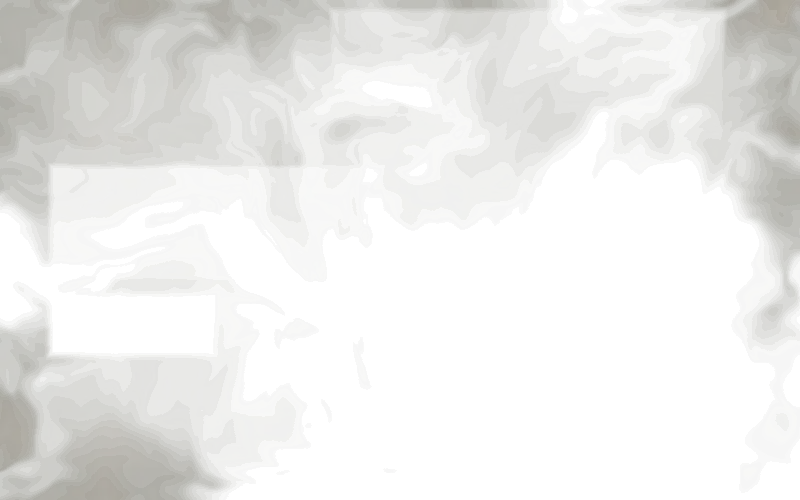
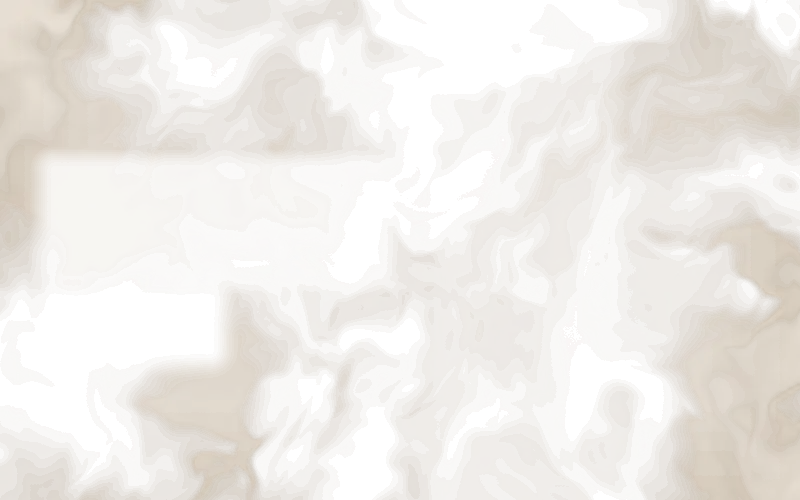
Smoke changes

diff --git a/src/lib/mist-shader.ts b/src/lib/mist-shader.ts
@@ -46,21 +46,24 @@ float noise(vec2 p) {
              mix(hash(i + vec2(0.0, 1.0)), hash(i + vec2(1.0, 1.0)), f.x), f.y);
 }
 
+// Each octave is turned, so the noise grid lines never stack into straight creases once the smoke is dense.
+const mat2 TURN = mat2(0.8, 0.6, -0.6, 0.8);
+
 float fbm(vec2 p) {
   float v = 0.0;
   float a = 0.5;
   for (int i = 0; i < 4; i++) {
     v += a * noise(p);
-    p = p * 2.02 + 17.0;
+    p = TURN * p * 2.02 + 17.0;
     a *= 0.5;
   }
   return v;
 }
 
-// 1 inside the box, fading to 0 over "feather" pixels outside it.
+// 1 inside the box, fading to 0 over "feather" pixels outside it, with round corners so dense smoke never shows a box.
 float rectMask(vec2 p, vec4 r, float feather) {
-  vec2 d = max(r.xy - p, p - r.zw);
-  return 1.0 - smoothstep(0.0, feather, max(d.x, d.y));
+  vec2 d = max(max(r.xy - p, p - r.zw), 0.0);
+  return 1.0 - smoothstep(0.0, feather, length(d));
 }
 
 void main() {
@@ -90,26 +93,33 @@ void main() {
   push *= min(1.0, uRadius * 0.33 / max(pushed, 1e-3));
   vec2 p = (px - push) * k;
 
-  // Smoke: a doubly warped field that curls slowly on its own, drifting sideways.
-  float t = uTime * 0.04;
+  // Smoke: a doubly warped field that curls on its own and rises slowly, like smoke off the floor.
+  float t = uTime * 0.05;
+  p.y -= t * 1.2;
   vec2 q = vec2(fbm(p + vec2(0.0, t)), fbm(p + vec2(5.2, 1.3) - vec2(t * 0.7, 0.0)));
   vec2 w = vec2(fbm(p + 2.6 * q + vec2(1.7, 9.2) + t * 0.5), fbm(p + 2.6 * q + vec2(8.3, 2.8) - t * 0.4));
   float f = fbm(p + 2.0 * w + vec2(t, 0.0));
 
-  float density = smoothstep(0.34, 0.8, f) * (1.0 - clear);
-  vec3 col = mix(uColA, uColB, smoothstep(0.25, 0.6, f));
-  col = mix(col, uColC, smoothstep(0.58, 0.9, f));
+  // A thick body with denser curling wisps on top, so it reads as smoke and not haze.
+  float body = smoothstep(0.24, 0.58, f);
+  float wisp = smoothstep(0.12, 0.0, abs(f - 0.55)) * smoothstep(0.3, 0.7, length(w));
+  float density = clamp(body * 0.85 + wisp * 0.3, 0.0, 1.0) * (1.0 - clear);
+  vec3 col = mix(uColA, uColB, smoothstep(0.3, 0.55, f));
+  col = mix(col, uColC, max(smoothstep(0.55, 0.8, f), wisp * 0.6));
 
-  // Alpha caps: 0.55 near the hero edges, 0.3 inside, 0.3 over the bottle, 0.15 behind the text.
+  // Alpha caps: 0.8 near the hero edges, 0.6 inside, 0.4 over the bottle, 0.15 behind the text.
   float edge = min(min(px.x, uRes.x - px.x), min(px.y, uRes.y - px.y)) / minDim;
-  float cap = mix(0.3, 0.55, 1.0 - smoothstep(0.0, 0.22, edge));
-  cap = min(cap, mix(1.0, 0.3, rectMask(px, uBottle, 40.0 * uScale)));
-  cap = min(cap, mix(1.0, 0.15, rectMask(px, uText, 40.0 * uScale)));
+  float cap = mix(0.6, 0.8, 1.0 - smoothstep(0.0, 0.22, edge));
+  // The bottle box is mostly transparent margin, so the cap hugs its middle third with a wide soft edge, or its sides show as seams.
+  vec4 glass = uBottle + vec4(1.0, 0.0, -1.0, 0.0) * (uBottle.z - uBottle.x) * 0.3;
+  cap = min(cap, mix(1.0, 0.4, rectMask(px, glass, 120.0 * uScale)));
+  cap = min(cap, mix(1.0, 0.15, rectMask(px, uText, 80.0 * uScale)));
 
   // The button is never covered. Its box already includes 16px padding.
-  float keep = rectMask(px, uKeepA, 24.0 * uScale);
+  float keep = rectMask(px, uKeepA, 64.0 * uScale);
 
-  float a = density * cap * (1.0 - keep);
+  // Half a step of dither: the soft cap ramps change alpha by less than one 8-bit step per pixel, which shows as stripes.
+  float a = max(density * cap + (hash(px) - 0.5) / 255.0, 0.0) * (1.0 - keep);
   outColor = vec4(col * a, a);
 }
 `;

diff --git a/src/components/MistLayer.tsx b/src/components/MistLayer.tsx
@@ -6,16 +6,16 @@ import { gsap, useGSAP } from "@/lib/gsap";
 // OGL and the shader stay out of the first load.
 const Mist = lazy(() => import("./Mist"));
 
-/** The mask keeps the fog low over the floor, fading out above roughly 65 percent of the hero height. */
-const MASK = "[mask-image:linear-gradient(to_top,black_30%,transparent_68%)]";
-// The still's caps were baked for the desktop layout. At 55 percent no region passes the 0.3 bottle cap on any layout.
-const STILL = "h-full w-full object-cover opacity-55";
+/** The mask keeps the smoke low over the floor, fading out above roughly 75 percent of the hero height. */
+const MASK = "[mask-image:linear-gradient(to_top,black_35%,transparent_75%)]";
+// The still's caps were baked for the desktop layout. At 75 percent it stays bold on phones, where the bottle sits elsewhere.
+const STILL = "h-full w-full object-cover opacity-75";
 const FADE = { duration: 0.8, ease: "power1.inOut" };
 
 /**
- * The fog starts as a captured frame of the shader, which costs nothing. The live shader only takes over when a
+ * The smoke starts as a captured frame of the shader, which costs nothing. The live shader only takes over when a
  * pointer or finger first comes over the hero, in idle time: creating a WebGL context is a long main-thread task,
- * and the mist only reacts to the pointer anyway. Reduced motion and WebGL failures keep the still.
+ * and the smoke only reacts to the pointer anyway. Reduced motion and WebGL failures keep the still.
  */
 export function MistLayer() {
   const layer = useRef<HTMLDivElement>(null);
@@ -64,8 +64,13 @@ export function MistLayer() {
     <div ref={layer} aria-hidden="true" className={`pointer-events-none absolute inset-0 z-[5] opacity-0 ${MASK}`}>
       {/* Decorative. Lazy, so the other theme's still never downloads. */}
       <div ref={still} className="absolute inset-0">
-        <img src="/mist-static.webp" alt="" loading="lazy" className={`${STILL} dark:hidden`} />
-        <img src="/mist-static-dark.webp" alt="" loading="lazy" className={`${STILL} hidden dark:block`} />
+        {/* Portrait screens get a still baked for the phone layout, or the crop keeps only the thin middle of the wide one. */}
+        {["", "-dark"].map((theme) => (
+          <picture key={theme}>
+            <source media="(orientation: portrait)" srcSet={`/mist-static-tall${theme}.webp`} />
+            <img src={`/mist-static${theme}.webp`} alt="" loading="lazy" className={`${STILL} ${theme ? "hidden dark:block" : "dark:hidden"}`} />
+          </picture>
+        ))}
       </div>
       {live && (
         <div ref={canvas} className="absolute inset-0 opacity-0">

diff --git a/tests/e2e/mist-caps.spec.ts b/tests/e2e/mist-caps.spec.ts
@@ -8,18 +8,20 @@ const STEP = 1 / 255;
 test.describe("mist alpha caps and keep-out (real shader, no browser UI)", () => {
   test.skip(({ isMobile }) => isMobile, "Shader math does not depend on the device");
 
-  test("respects 0.55 overall, 0.3 over the bottle, 0.15 behind text and 0 inside keep-out boxes", async ({ page }) => {
+  test("respects 0.8 overall, 0.4 over the bottle glass, 0.15 behind text and 0 inside keep-out boxes", async ({ page }) => {
     await page.goto("about:blank");
-    const boxes: Record<"bottle" | "text" | "keepA", Box> = {
+    // The bottle cap hugs the middle third of the bottle box, where the glass stands. "glass" is only measured.
+    const boxes: Record<"bottle" | "glass" | "text" | "keepA", Box> = {
       bottle: [320, 140, 480, 400],
+      glass: [368, 140, 432, 400],
       text: [240, 420, 560, 480],
       keepA: [260, 40, 395, 100],
     };
     for (const time of [0, 13, 40, 97]) {
       const { stats } = await renderMist(page, { width: 800, height: 500, time, scale: 0.5, boxes });
       expect(stats.all).toBeGreaterThan(0.2);
-      expect(stats.all).toBeLessThanOrEqual(0.55 + STEP);
-      expect(stats.bottle).toBeLessThanOrEqual(0.3 + STEP);
+      expect(stats.all).toBeLessThanOrEqual(0.8 + STEP);
+      expect(stats.glass).toBeLessThanOrEqual(0.4 + STEP);
       expect(stats.text).toBeLessThanOrEqual(0.15 + STEP);
       expect(stats.keepA).toBeLessThanOrEqual(STEP);
     }
@@ -27,9 +29,9 @@ test.describe("mist alpha caps and keep-out (real shader, no browser UI)", () =>
 
   test("the dark palette respects the same caps", async ({ page }) => {
     await page.goto("about:blank");
-    const { stats } = await renderMist(page, { width: 800, height: 500, time: 40, scale: 0.5, colors: MIST_COLORS_DARK, boxes: { bottle: [320, 140, 480, 400], text: [240, 420, 560, 480], keepA: [260, 40, 395, 100] } });
-    expect(stats.all).toBeLessThanOrEqual(0.55 + STEP);
-    expect(stats.bottle).toBeLessThanOrEqual(0.3 + STEP);
+    const { stats } = await renderMist(page, { width: 800, height: 500, time: 40, scale: 0.5, colors: MIST_COLORS_DARK, boxes: { bottle: [320, 140, 480, 400], glass: [368, 140, 432, 400], text: [240, 420, 560, 480], keepA: [260, 40, 395, 100] } });
+    expect(stats.all).toBeLessThanOrEqual(0.8 + STEP);
+    expect(stats.glass).toBeLessThanOrEqual(0.4 + STEP);
     expect(stats.text).toBeLessThanOrEqual(0.15 + STEP);
     expect(stats.keepA).toBeLessThanOrEqual(STEP);
   });

diff --git a/scripts/capture-mist.ts b/scripts/capture-mist.ts
@@ -3,20 +3,24 @@ import sharp from "sharp";
 import { MIST_COLORS, MIST_COLORS_DARK, MIST_STILL_TIME, type Box } from "../src/lib/mist-math.ts";
 import { renderMist } from "./lib/mist-harness.ts";
 
-// Approximate desktop hero regions in canvas pixels (origin bottom left), so the caps are baked into the fallback.
-const boxes: Record<"bottle" | "text" | "keepA", Box> = {
-  bottle: [672, 10, 1440, 970],
-  text: [110, 450, 760, 660],
-  keepA: [110, 300, 420, 400],
-};
+type Boxes = Record<"bottle" | "text" | "keepA", Box>;
+// Approximate hero regions in canvas pixels (origin bottom left), so the caps are baked into the fallback.
+// Wide is the desktop hero at 1x. Tall is a 390 by 772 phone hero at 2x, with the bottle between headline and button.
+const layouts: { name: string; width: number; height: number; boxes: Boxes }[] = [
+  { name: "", width: 1600, height: 1000, boxes: { bottle: [672, 10, 1440, 970], text: [110, 450, 760, 660], keepA: [110, 300, 420, 400] } },
+  { name: "-tall", width: 780, height: 1544, boxes: { bottle: [40, 234, 740, 1194], text: [40, 1144, 550, 1434], keepA: [8, 64, 524, 216] } },
+];
 
 const browser = await chromium.launch();
 const page = await browser.newPage();
 await page.goto("about:blank");
-for (const [colors, file] of [[MIST_COLORS, "public/mist-static.webp"], [MIST_COLORS_DARK, "public/mist-static-dark.webp"]] as const) {
-  const { dataUrl } = await renderMist(page, { width: 1600, height: 1000, time: MIST_STILL_TIME, scale: 1, colors, boxes });
-  // Fog has no fine detail, so half size looks the same stretched over the hero and stays small.
-  await sharp(Buffer.from(dataUrl.split(",")[1], "base64")).resize(800, 500).webp({ quality: 70, alphaQuality: 70 }).toFile(file);
-  console.log(`wrote ${file}`);
+for (const { name, width, height, boxes } of layouts) {
+  for (const [colors, theme] of [[MIST_COLORS, ""], [MIST_COLORS_DARK, "-dark"]] as const) {
+    const file = `public/mist-static${name}${theme}.webp`;
+    const { dataUrl } = await renderMist(page, { width, height, time: MIST_STILL_TIME, scale: 1, colors, boxes });
+    // Smoke has no fine detail, so half size looks the same stretched over the hero and stays small.
+    await sharp(Buffer.from(dataUrl.split(",")[1], "base64")).resize(width / 2, height / 2).webp({ quality: 70, alphaQuality: 70 }).toFile(file);
+    console.log(`wrote ${file}`);
+  }
 }
 await browser.close();

diff --git a/src/components/SpinBottle.tsx b/src/components/SpinBottle.tsx
@@ -39,11 +39,13 @@ type Props = {
   float?: boolean;
   /** A pulsing placeholder until the still arrives. Off for the hero, which has its floor scene behind it. */
   skeleton?: boolean;
+  /** Standing on the floor: the shadow sits tight under the base instead of below a floating bottle. */
+  grounded?: boolean;
   className?: string;
   ref?: Ref<SpinHandle>;
 };
 
-export function SpinBottle({ dir, alt, priority = false, float = false, skeleton = true, className = "", ref }: Props) {
+export function SpinBottle({ dir, alt, priority = false, float = false, skeleton = true, grounded = false, className = "", ref }: Props) {
   const root = useRef<HTMLDivElement>(null);
   const body = useRef<HTMLDivElement>(null);
   const still = useRef<HTMLImageElement>(null);
@@ -117,6 +119,13 @@ export function SpinBottle({ dir, alt, priority = false, float = false, skeleton
 
   return (
     <div ref={root} className={`relative ${className}`}>
+      {/* Painted first, so a grounded shadow tucks under the base: a dark contact line inside a soft pool. The placeholder art's base sits at 16 percent of this box. */}
+      <div
+        ref={shadow}
+        data-shadow
+        aria-hidden="true"
+        className={`absolute inset-x-0 mx-auto rounded-[50%] ${grounded ? "bottom-[15.2%] h-[2%] w-[37%] bg-[var(--ground)] shadow-[0_0_24px_10px_var(--contact)] blur-[2px]" : "bottom-[6%] h-[4%] w-[44%] bg-[var(--contact)] blur-[6px]"}`}
+      />
       {/* Centered by layout, not by CSS translate: GSAP folds `translate` into its own transform and can freeze a wrong value while the box is hidden. */}
       <div className="absolute inset-x-0 bottom-[9%] flex h-[89%] justify-center">
         <div ref={body} className="relative aspect-[4/5] h-full">
@@ -135,7 +144,6 @@ export function SpinBottle({ dir, alt, priority = false, float = false, skeleton
           <div ref={sprite} aria-hidden="true" className="absolute inset-0 bg-no-repeat opacity-0 [background-size:600%_600%]" />
         </div>
       </div>
-      <div ref={shadow} data-shadow aria-hidden="true" className="absolute inset-x-0 bottom-[6%] mx-auto h-[4%] w-[44%] rounded-[50%] bg-[var(--contact)] blur-[6px]" />
     </div>
   );
 }

diff --git a/src/components/Hero.tsx b/src/components/Hero.tsx
@@ -33,7 +33,7 @@ export function Hero() {
             transparent margin of its own image. On desktop the box spans 32 to 100 percent, so it stands at 66 percent. */}
         <div className="relative z-[1] my-4 flex min-h-0 w-full flex-1 justify-center lg:absolute lg:bottom-[1%] lg:left-[32%] lg:right-0 lg:my-0 lg:h-[96%] lg:w-auto lg:flex-none">
           <div data-hero-bottle className="absolute bottom-0 aspect-[4/5] h-[112%] lg:h-full">
-            <SpinBottle dir="/hero" alt="A SAKA Parfum bottle standing on a stone floor" priority skeleton={false} className="h-full" />
+            <SpinBottle dir="/hero" alt="A SAKA Parfum bottle standing on a stone floor" priority skeleton={false} grounded className="h-full" />
           </div>
         </div>
 

diff --git a/src/components/Intro.tsx b/src/components/Intro.tsx
@@ -41,7 +41,7 @@ export function Intro({ logo }: { logo: ReactNode }) {
         {logo}
       </div>
       <div ref={stage} aria-hidden="true" className="absolute opacity-0">
-        <SpinBottle ref={bottle} dir="/hero" alt="" className="h-full" />
+        <SpinBottle ref={bottle} dir="/hero" alt="" grounded className="h-full" />
       </div>
       <button ref={skip} type="button" aria-label="Skip intro" className="absolute inset-x-0 bottom-8 mx-auto min-h-11 w-fit px-4 font-display text-[13px] font-medium text-muted opacity-0">
         Skip

diff --git a/src/lib/mist-math.ts b/src/lib/mist-math.ts
@@ -1,7 +1,7 @@
 export type Box = [number, number, number, number];
 
-export const MIST_COLORS = ["#F2EBDF", "#DCD0BF", "#AD9883"] as const;
-export const MIST_COLORS_DARK = ["#23261C", "#3A3A2C", "#8C7964"] as const;
+export const MIST_COLORS = ["#AD9883", "#8C7964", "#685846"] as const;
+export const MIST_COLORS_DARK = ["#8C7964", "#BDAE9B", "#DCD0BF"] as const;
 
 /** Shader time of the captured still. The live mist starts its clock here, so swapping the still for the canvas does not jump. */
 export const MIST_STILL_TIME = 40;

diff --git a/tests/e2e/mist.spec.ts b/tests/e2e/mist.spec.ts
@@ -21,7 +21,7 @@ test.describe("mist", () => {
     await hoverHero(page);
     await expect(page.locator("section canvas")).toHaveCount(1);
     await expect.poll(() => opacity(page.locator("section div:has(> canvas)").locator(".."))).toBe("1");
-    await expect.poll(() => opacity(still.locator(".."))).toBe("0");
+    await expect.poll(() => opacity(still.locator("../.."))).toBe("0");
   });
 
   test("the canvas is decorative, never takes input, sits under the button and is masked low", async ({ page }) => {

diff --git a/src/app/globals.css b/src/app/globals.css
@@ -18,6 +18,7 @@
   --badge: #ad9883;
   --ink: #171a12;
   --contact: rgba(23, 26, 18, 0.18);
+  --ground: rgba(23, 26, 18, 0.5);
   color-scheme: light;
 }
 
@@ -35,6 +36,7 @@
   --btn: #f5efe4;
   --btn-text: #171a12;
   --contact: rgba(23, 26, 18, 0.6);
+  --ground: rgba(23, 26, 18, 0.95);
   color-scheme: dark;
 }
 

diff --git a/CLAUDE.md b/CLAUDE.md
@@ -47,6 +47,7 @@ The redesign spec `docs/superpowers/specs/2026-10-18-saka-redesign-design.md` (2
 - The logo is delivered as a hand-built SVG, created for the user. Source files: `Saka logo.jpg` and `SakaBG logo.png` in the project root, both raster on pure white and for reference only. Use the SVG everywhere. Never place the raster files on the site.
 - Bottle spin: every bottle (the hero and each perfume) has a transparent `still.webp` and a 36-frame `spin.webp` sprite, made by `scripts/frames.mjs`. The user will supply videos later. Until then use clearly marked placeholders. Cards float and spin once on desktop hover. The modal bottle floats and turns every few seconds.
 - Hero: a floor scene (AI-generated light and dark backdrops, approved by the user) with the bottle standing on the floor, the headline and one VIEW PRODUCTS button on the left. Far less text than the reference.
+- Hero bottle stands on the floor: its shadow is a tight contact shadow right under the base, never a gap below it (owner, 2026-10-22). Floating shadows are for cards and the modal only.
 - Intro sequence: 0 to 1s logo fades in then out. 1 to 3s the bottle fades in at center and spins. 3 to 4.2s it glides down onto the floor while the floor scene dissolves in, then the headline, button and header fade up and the mist breathes in. Skippable, respects reduced motion. Plays once per browser tab (`sessionStorage`), so reloads and returns skip it.
 
 ## Checkout flow (locked)
@@ -90,12 +91,14 @@ The redesign spec `docs/superpowers/specs/2026-10-18-saka-redesign-design.md` (2
 - Vercel hosting. Playwright and axe-core for end-to-end and accessibility checks.
 - Targets on mobile: Lighthouse Performance, Accessibility, Best Practices and SEO at 90 or higher (Accessibility and SEO 95 or higher). LCP under 2.5s, CLS under 0.1, INP under 200ms. Initial JavaScript under 170KB gzipped, excluding the mist chunk. WCAG 2.2 AA. axe-core reports zero serious or critical issues.
 
-## Mist rules (the brand brief lists smoke as off-brand, the client asked for mist)
+## Smoke rules (the brand brief lists smoke as off-brand, the owner asked for it)
 
-- Soft, slow, low-contrast fog using only #F2EBDF, #DCD0BF and #AD9883. Dark mode: #23261C, #3A3A2C, #8C7964 (the mist follows the theme switch).
-- The mist hangs low over the hero floor: a CSS mask fades it out above roughly 65 percent of the hero height.
-- No sparkles, no glow, no new hues, no gradients outside the mist itself.
-- Alpha caps: 0.55 near hero edges, 0.3 over the bottle, 0.15 behind headline text. Buttons are never covered.
+The code still calls it "mist" (`Mist.tsx`, `mist-shader.ts`). On 2026-10-22 the owner asked for smoke instead of mist: thicker, clearly visible, an attraction.
+
+- Slow, curling smoke that rises off the floor. It contrasts with the theme: darker smoke on light (#AD9883, #8C7964, #685846), lighter smoke on dark (#8C7964, #BDAE9B, #DCD0BF). It follows the theme switch.
+- The smoke hangs low over the hero floor: a CSS mask fades it out above roughly 75 percent of the hero height.
+- No sparkles, no glow, no new hues, no gradients outside the smoke itself.
+- Alpha caps: 0.8 near hero edges, 0.6 elsewhere, 0.4 over the bottle glass, 0.15 behind headline text. Buttons are never covered. Keep-outs fade with round corners so dense smoke never shows a box.
 - Reacts to pointer or finger only. Nothing moves on scroll (no parallax). Never blocks vertical scroll.
 - Canvas at 50 percent resolution, device pixel ratio capped at 1.5, 30fps cap on mobile, paused off screen and in hidden tabs. If WebGL2 fails, show a static mist image with no error message.
 

diff --git a/docs/superpowers/specs/2026-10-18-saka-redesign-design.md b/docs/superpowers/specs/2026-10-18-saka-redesign-design.md
@@ -220,7 +220,7 @@ Rules:
   - Right of center: the hero bottle (SpinBottle `dir="/hero"`) standing on the floor, about 58% of the hero height, with its contact shadow.
   - No subheadline, no feature card, no dots.
 - **Mobile layout:** headline at the top left, bottle centered on the floor, button at the bottom left.
-- **Mist:** low over the floor only. The original mist rules apply, with a CSS mask that fades it out above roughly 65% of the hero height. Colors follow the theme: light #F2EBDF, #DCD0BF, #AD9883, dark #23261C, #3A3A2C, #8C7964. The single button is the keep-out box.
+- **Mist (now smoke, owner change 2026-10-22):** low over the floor only, with a CSS mask that fades it out above roughly 75% of the hero height. Thicker and contrasting with the theme: light #AD9883, #8C7964, #685846, dark #8C7964, #BDAE9B, #DCD0BF. Caps 0.8 at the edges, 0.6 inside, 0.4 over the bottle glass, 0.15 behind text. The single button is the keep-out box. See "Smoke rules" in CLAUDE.md.
 
 ### 7.2 Intro timeline
 
